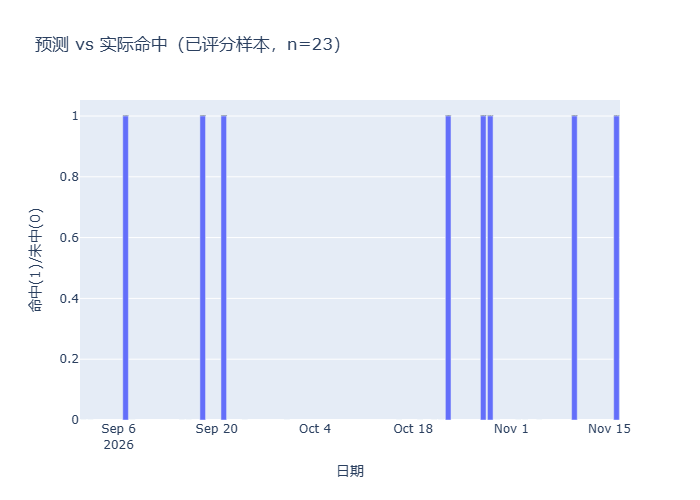
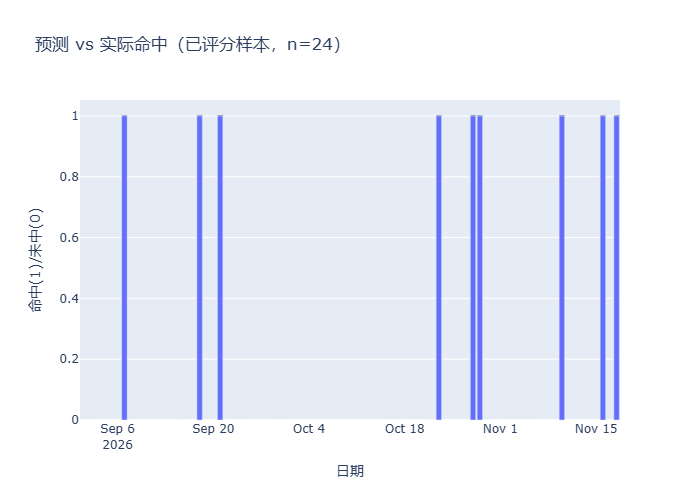
docs(thesis): sync chapter 6 to 40 snapshots
Automation advanced ch6_eval to 40 snapshots / 24 scored predictions; update body text, grouped table and T3 null semantics to match metrics. Guards: thesis/public/quality all green.

diff --git a/thesis/正文/StockSignal_毕业论文_完整稿.md b/thesis/正文/StockSignal_毕业论文_完整稿.md
@@ -698,21 +698,21 @@ sug_delta = int(max(-MAX_DELTA, min(MAX_DELTA, round(raw))))
 
 ## 6.2 决策闭环评估（真实数据）
 
-设计的价值最终要落在真实数据的行为上。本节以 2026 年 8—9 月的每日快照为样本检验三个问题：仓位是否被 clamp 有界、每次决策是否留下可追踪的 reasons、预测是否在次日被对账。
+设计的价值最终要落在真实数据的行为上。本节以 2026 年 8—11 月的每日快照为样本检验三个问题：仓位是否被 clamp 有界、每次决策是否留下可追踪的 reasons、预测是否在次日被对账。
 
-来自 `eval_ch6.py` 对 `daily_snapshot.json` + `snapshots/` 的统计（数据区间 2026-08-31 至 2026-11-18）：
+来自 `eval_ch6.py` 对 `daily_snapshot.json` + `snapshots/` 的统计（数据区间 2026-08-31 至 2026-11-20）：
 
-- 决策快照样本量 **n = 38**；
+- 决策快照样本量 **n = 40**；
 - 市场温度范围 **[11.4, 87.0]**；仓位建议范围 **[5, 82]**；
 - **clamp 5~95 校验通过**（所有仓位均落在 [5,95]）；
-- 周期分布：修复试探 15 天 / 主升高潮 7 天 / 退潮 10 天 / 修复确认 3 天 / 高潮分化 2 天 / 冰点 1 天；
-- 预测记录 **38 条**，已评分 **23 条**（命中率 34.8%，样本仍小，**不做显著性推断**）。
+- 周期分布：修复试探 16 天 / 主升高潮 7 天 / 退潮 10 天 / 修复确认 3 天 / 高潮分化 2 天 / 冰点 2 天；
+- 预测记录 **40 条**，已评分 **24 条**（命中率 37.5%，样本仍小，**不做显著性推断**）。
 
-图 6-1 给出 38 个交易日的仓位建议及 5/95 上下限参考线，用于直观校验 clamp 约束确实生效：
+图 6-1 给出 40 个交易日的仓位建议及 5/95 上下限参考线，用于直观校验 clamp 约束确实生效：
 
 ![图 6-1　决策闭环：每日仓位建议（clamp 5~95 校验）](../素材/ch6_eval/fig_position.png)
 
-图 6-2 是周期分布。38 个交易日覆盖全部六个周期，说明分类逻辑对真实数据产生了区分，而非恒定输出同一档：
+图 6-2 是周期分布。40 个交易日覆盖全部六个周期，说明分类逻辑对真实数据产生了区分，而非恒定输出同一档：
 
 ![图 6-2　市场周期分布](../素材/ch6_eval/fig_cycle.png)
 
@@ -720,9 +720,9 @@ sug_delta = int(max(-MAX_DELTA, min(MAX_DELTA, round(raw))))
 
 ![图 6-3　温度 vs 仓位散点（决策函数形态）](../素材/ch6_eval/fig_temp_pos.png)
 
-图 6-4 是已评分样本（n=23）的命中情况。当前命中率 34.8%，样本仍小，**此处只证明对账链路持续运行并正确落盘，不构成任何统计结论**；随着每日快照累积，该图才逐步具备评价意义：
+图 6-4 是已评分样本（n=24）的命中情况。当前命中率 37.5%，样本仍小，**此处只证明对账链路持续运行并正确落盘，不构成任何统计结论**；随着每日快照累积，该图才逐步具备评价意义：
 
-![图 6-4　预测 vs 实际命中（已评分样本，n=23）](../素材/ch6_eval/fig_hit.png)
+![图 6-4　预测 vs 实际命中（已评分样本，n=24）](../素材/ch6_eval/fig_hit.png)
 
 解读：系统上线初期样本量有限，本章以"**决策闭环功能正确性 + 校准机制设计正确性**"为评估主线，命中率仅作趋势性证据，不夸大统计结论（与 5.3 节的保守设计自洽）。
 
@@ -735,10 +735,11 @@ sug_delta = int(max(-MAX_DELTA, min(MAX_DELTA, round(raw))))
 | 战术分组 | n_call（表态次数） | accuracy | 说明 |
 |---|---|---|---|
 | 进攻期（主升高潮 7 + 修复确认 3） | 10 | 50.0% | 表态最多；细分上修复确认 66.7% 高于主升高潮 42.9% |
-| 修复期（修复试探） | 0 | **null** | 无方向表态样本，系统拒给命中率 |
-| 防守期（退潮） | 9 | 22.2 | 表态 9 次命中 2 次——防守期方向最难判 |
+| 修复期（修复试探 16 + 冰点 2） | 2 | 0.0% | 2 次表态均未命中；冰点 n_call=0 不表态 |
+| 防守期（退潮） | 10 | 30.0 | 表态 10 次命中 3 次——防守期方向较难判 |
+| 冰点（无方向表态） | 0 | **null** | T3 小样本门槛下拒给命中率 |
 
-`accuracy=null` **不是 bug**，而是 `calibration.py` 三条铁律中"T3 小样本不表态"在真实运行数据上的如实体现——样本不够时系统拒绝输出假阳性"建议调参"。这正是 5.3 节所述设计的正确落地。分化本身也带信息：进攻期表态 10 次命中 5 次（50.0%）而防守期表态 9 次命中 2 次（22.2%）——方向可预测性随情绪周期分化，与 6.8 节大样本结论同构，也构成 7.2 节"诚实不足"陈述的实证基础。
+冰点分组出现 `accuracy=null`，**不是 bug**，而是 `calibration.py` 三条铁律中"T3 小样本不表态"在真实运行数据上的如实体现——样本不够时系统拒绝输出假阳性"建议调参"。这正是 5.3 节所述设计的正确落地。分化本身也带信息：进攻期表态 10 次命中 5 次（50.0%）而防守期表态 10 次命中 3 次（30.0%）——方向可预测性随情绪周期分化，与 6.8 节大样本结论同构，也构成 7.2 节"诚实不足"陈述的实证基础。
 
 ## 6.4 回测成本模型有效性验证
 
@@ -879,7 +880,7 @@ sug_delta = int(max(-MAX_DELTA, min(MAX_DELTA, round(raw))))
 7. **保障层——质量保障体系**：五层测试（4394 个测试函数，测试代码与源码比 0.64:1）、77 个 AST 静态守卫、变异验证与提交门禁，使"不足即声明、变更可回滚"成为机器可执行的约束，而不只是纸面承诺。
 
 ## 7.2 不足（诚实陈述，呼应校准设计）
-- **纵向样本仍偏少**：评估窗口内仅积累 38 份决策快照、23 条已评分预测，长期命中率尚待积累（已建每日自动累积任务，见附录 C）。
+- **纵向样本仍偏少**：评估窗口内仅积累 40 份决策快照、24 条已评分预测，长期命中率尚待积累（已建每日自动累积任务，见附录 C）。
 - **校准采纳保守（有意设计）**：T1 阶段仅出建议、需人工/阈值采纳，自动化程度有限——这是为防过拟合而**有意保留的保守设计**，并非缺陷。
 - **事件因子未大规模寻优**：事件权重保持可解释优先，未做黑箱加权，故事件侧贡献的解释力有待扩展。
 

diff --git a/thesis/素材/ch6_eval/report.md b/thesis/素材/ch6_eval/report.md
@@ -1,10 +1,10 @@
 # 第6章 评估结果（草稿，来自真实运行数据）
 
-- 决策快照样本量：38 份（['2026-08-31', '2026-11-18']）
+- 决策快照样本量：40 份（['2026-08-31', '2026-11-20']）
 - 温度取值范围：[11.4, 87.0]
 - 仓位取值范围：[5, 82]，clamp[5,95] 校验：通过
-- 周期分布：{'修复试探': 15, '主升高潮': 7, '退潮': 10, '修复确认': 3, '高潮分化': 2, '冰点': 1}
-- 预测记录：共 38 条，已评分 23 条，命中率 0.34782608695652173
+- 周期分布：{'修复试探': 16, '主升高潮': 7, '退潮': 10, '修复确认': 3, '高潮分化': 2, '冰点': 2}
+- 预测记录：共 40 条，已评分 24 条，命中率 0.375
 
 > 说明：当前为系统上线初期，样本量有限。第6章以「决策闭环功能正确性 + 校准机制设计正确性」为评估主线，
 > 纵向命中率统计作为趋势性证据呈现，**不**对小规模样本做显著性推断（与 calibration.py 小样本不表态的设计一致）。
